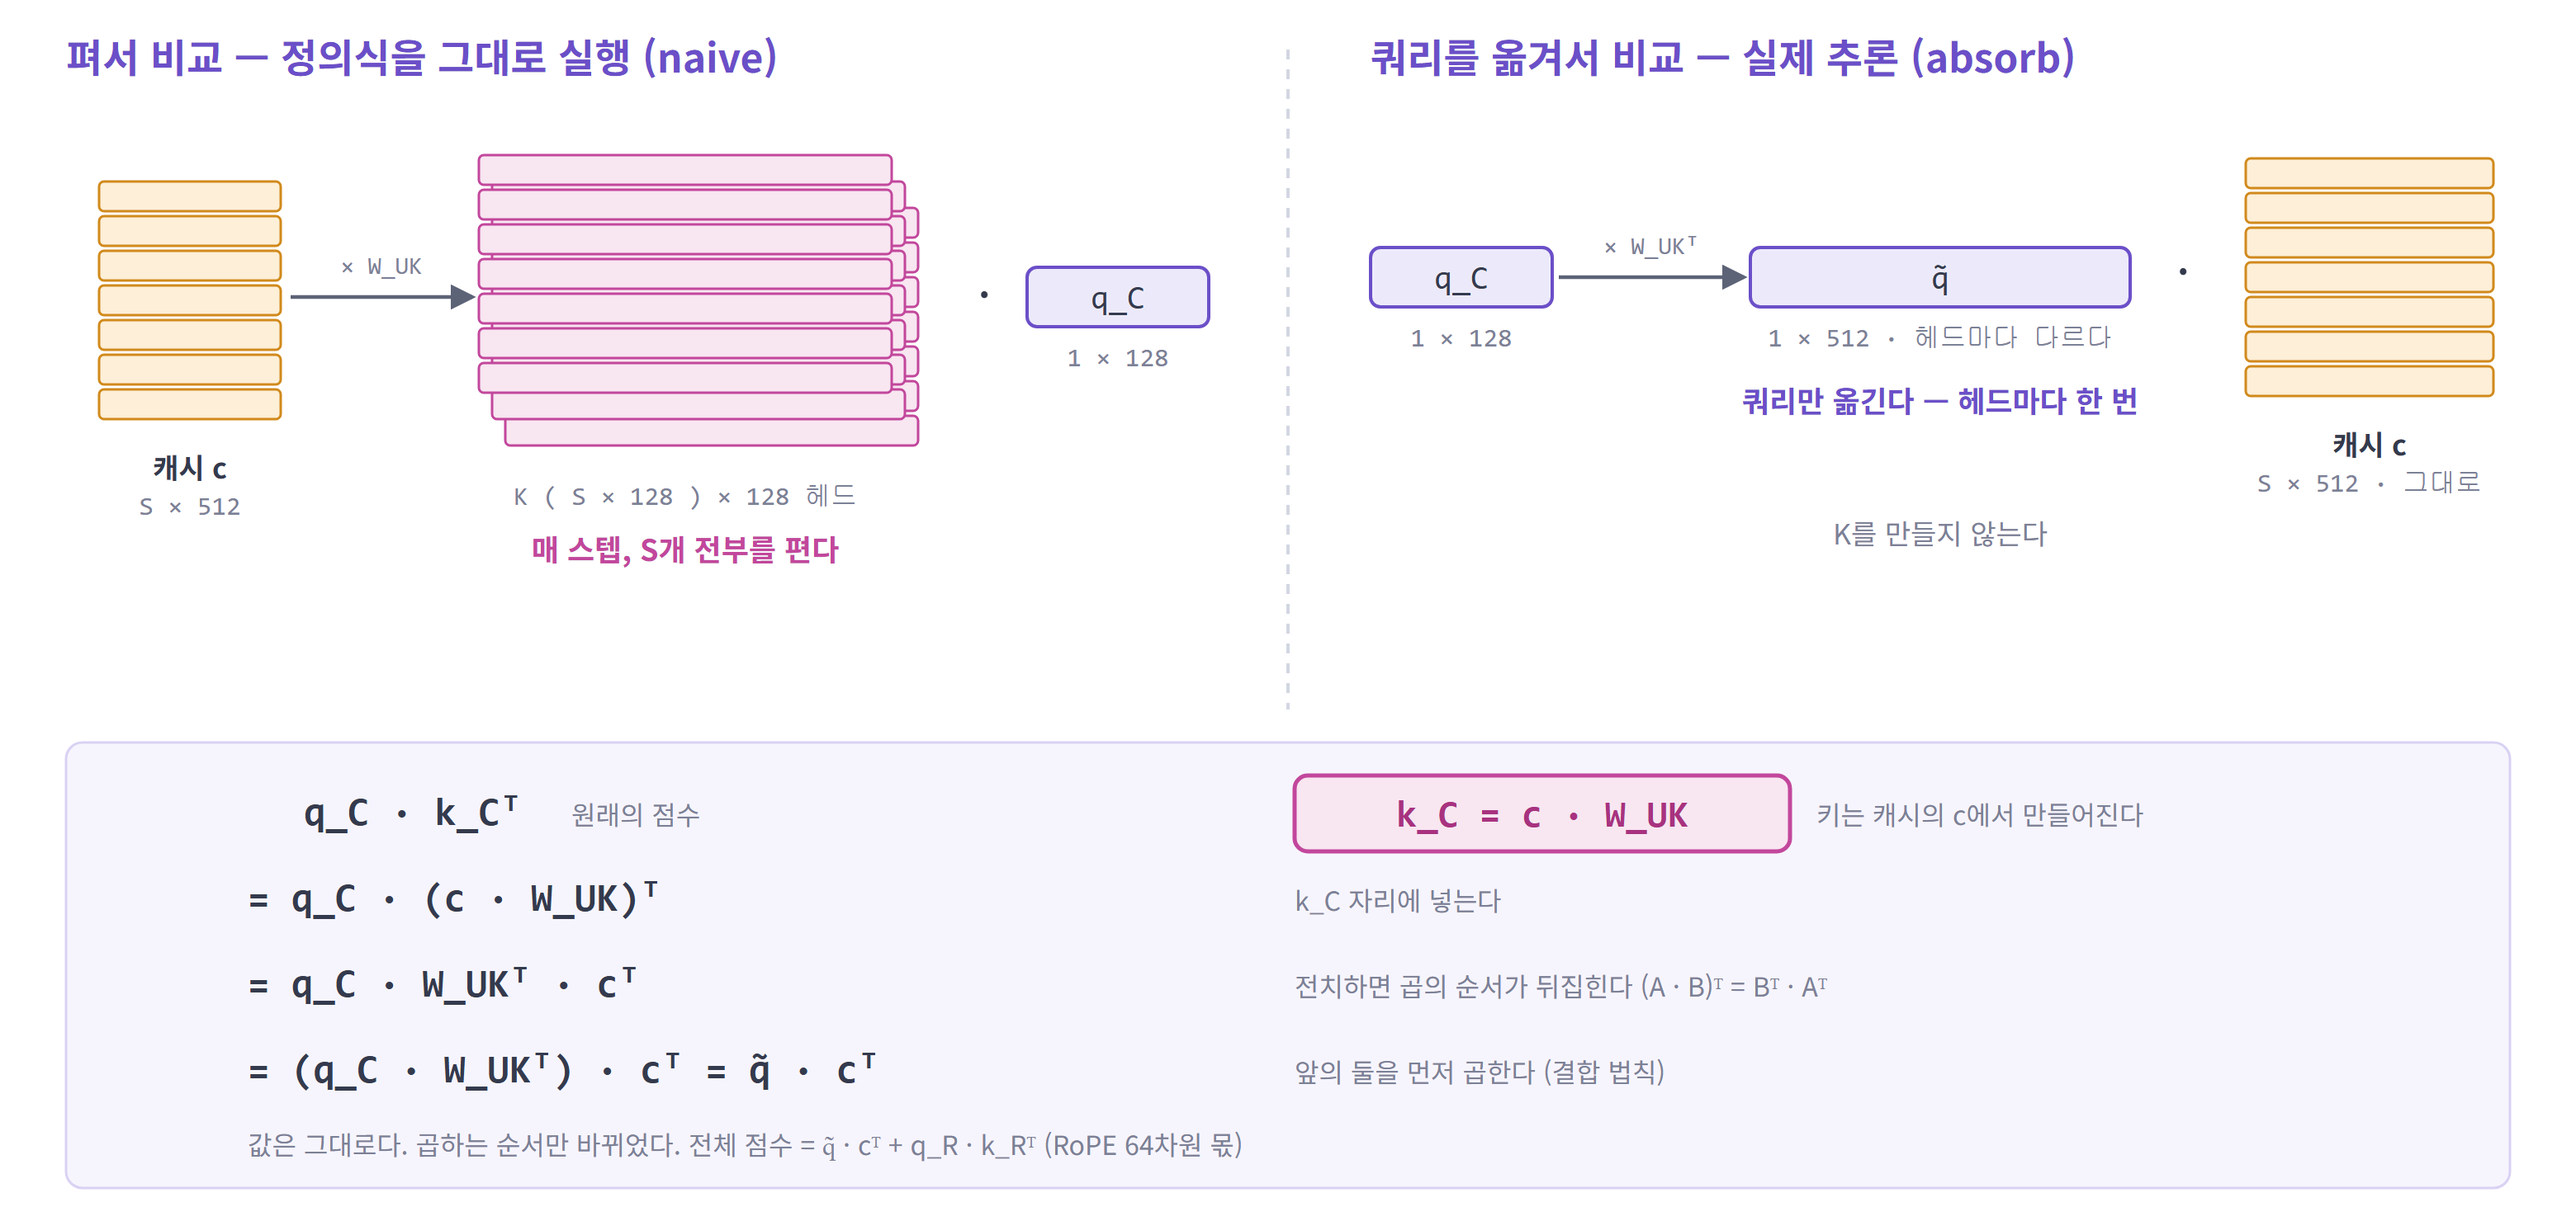
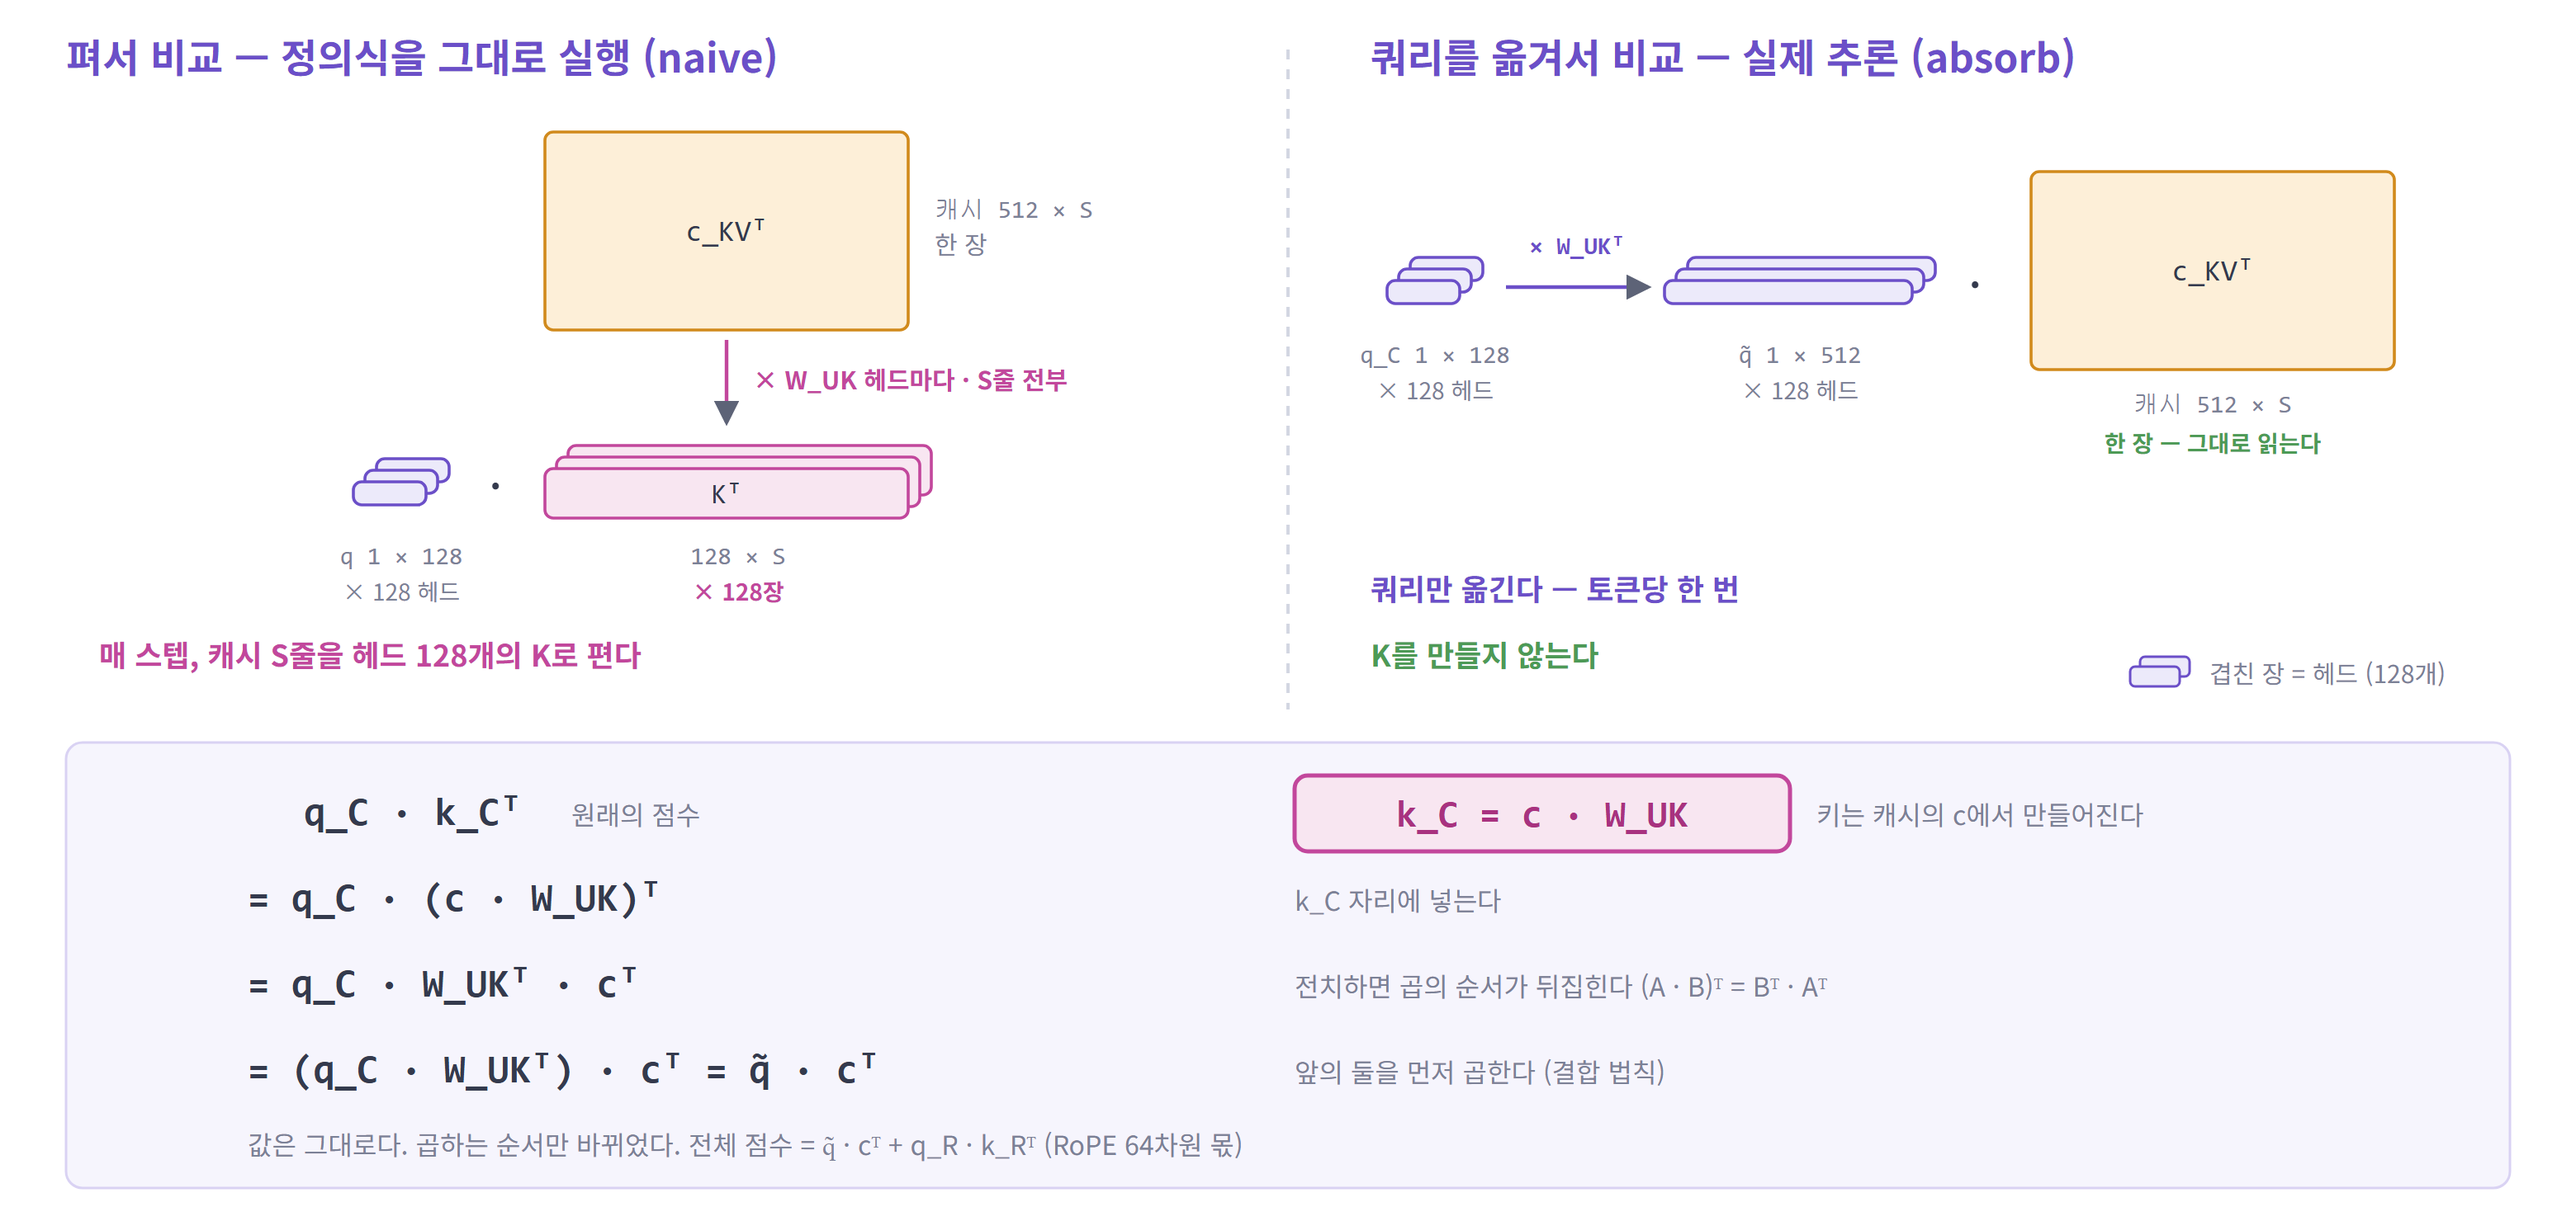
docs: redraw the MLA absorb figure with heads as stacked sheets

diff --git a/seminar/figures/make_figures.py b/seminar/figures/make_figures.py
@@ -228,35 +228,59 @@ def fig_mla_cache():
 # ---------------------------------------------------------------- 4. MLA 흡수
 def fig_mla_absorb():
     f = Fig("04-mla-absorb", 1560, 740)
-    # 왼쪽 : 펴서 비교
+    PINK, GRN = "#c2479c", "#4d9a56"
+    WS, H512, H128, W128, W512 = 220, 120, 30, 44, 150      # S, 512, 128을 나타내는 길이
+
+    def sheets(x, y, w, h, kind, n=3, off=7):
+        for i in range(n - 1, -1, -1):
+            f.rect(x + i * off, y - i * off, w, h, KINDS[kind][0], KINDS[kind][1], 5, 1.8)
+
+    # ---- 왼쪽 : 펴서 비교
     f.title(40, 44, "펴서 비교 — 정의식을 그대로 실행 (naive)")
-    f.stack(60, 110, 110, 7, "c", hi_last=False)
-    f.text(115, 290, "캐시 c", 17, weight=600)
-    f.text(115, 312, "S × 512", 16, color=MUTED, mono=True)
-    f.arrow(176, 180, 286, 180)
-    f.text(231, 166, "× W_UK", 15, color=MUTED, mono=True)
-    for i, dx in enumerate((16, 8, 0)):
-        f.stack(290 + dx, 94 + dx * 2, 250, 7, "k", hi_last=False)
-    f.text(415 + 0, 306, "K  ( S × 128 )  × 128 헤드", 16, color=MUTED, mono=True)
-    f.text(415, 340, "매 스텝, S개 전부를 편다", 18, weight=700, color="#c2479c")
-    f.text(596, 190, "·", 30)
-    f.box(622, 162, 110, 36, "q", "q_C", "1 × 128")
+    cx = 330
+    f.rect(cx, 80, WS, H512, KINDS["c"][0], KINDS["c"][1], 5, 1.8)
+    f.text(cx + WS / 2, 146, "c_KVᵀ", 18, mono=True)
+    f.text(cx + WS + 16, 132, "캐시  512 × S", 15, "start", color=MUTED, mono=True)
+    f.text(cx + WS + 16, 154, "한 장", 15, "start", color=MUTED)
+    f.arrow(cx + WS / 2, 206, cx + WS / 2, 256, color=PINK)
+    f.text(cx + WS / 2 + 16, 236, "× W_UK   헤드마다 · S줄 전부", 15, "start", 700, PINK)
+    sheets(cx, 284, WS, H128, "k")
+    f.text(cx + WS / 2, 305, "Kᵀ", 17, mono=True)
+    f.text(cx + WS / 2 + 7, 342, "128 × S", 15, color=MUTED, mono=True)
+    f.text(cx + WS / 2 + 7, 364, "× 128장", 14, weight=700, color=PINK)
+    sheets(214, 292, W128, 14, "q")
+    f.text(214 + W128 / 2 + 7, 342, "q  1 × 128", 15, color=MUTED, mono=True)
+    f.text(214 + W128 / 2 + 7, 364, "× 128 헤드", 14, color=MUTED)
+    f.text(300, 306, "·", 30)
+    f.text(60, 404, "매 스텝, 캐시 S줄을 헤드 128개의 K로 편다", 18, "start", 700, PINK)
 
     f.line(780, 30, 780, 430, "#d3d6e2", 2, "6 6")
 
-    # 오른쪽 : 쿼리를 옮겨서
+    # ---- 오른쪽 : 쿼리를 옮겨서
     x0 = 830
     f.title(x0, 44, "쿼리를 옮겨서 비교 — 실제 추론 (absorb)")
-    f.box(x0, 150, 110, 36, "q", "q_C", "1 × 128")
-    f.arrow(x0 + 114, 168, x0 + 226, 168)
-    f.text(x0 + 170, 154, "× W_UKᵀ", 15, color=MUTED, mono=True)
-    f.box(x0 + 230, 150, 230, 36, "q", "q̃", "1 × 512  ·  헤드마다 다르다")
-    f.text(x0 + 345, 250, "쿼리만 옮긴다 — 헤드마다 한 번", 18, weight=700, color=PURPLE)
-    f.text(x0 + 492, 176, "·", 30)
-    f.stack(x0 + 530, 96, 150, 7, "c", hi_last=False)
-    f.text(x0 + 605, 276, "캐시 c", 17, weight=600)
-    f.text(x0 + 605, 298, "S × 512  ·  그대로", 16, color=MUTED, mono=True)
-    f.text(x0 + 345, 330, "K를 만들지 않는다", 17, color=MUTED)
+    y = 170
+    sheets(x0 + 10, y, W128, 14, "q")
+    f.text(x0 + 10 + W128 / 2 + 7, y + 50, "q_C  1 × 128", 15, color=MUTED, mono=True)
+    f.text(x0 + 10 + W128 / 2 + 7, y + 72, "× 128 헤드", 14, color=MUTED)
+    f.arrow(x0 + 82, y + 4, x0 + 168, y + 4, color=PURPLE)
+    f.text(x0 + 125, y - 16, "× W_UKᵀ", 15, weight=700, color=PURPLE, mono=True)
+    sheets(x0 + 178, y, W512, 14, "q")
+    f.text(x0 + 178 + W512 / 2 + 7, y + 50, "q̃  1 × 512", 15, color=MUTED, mono=True)
+    f.text(x0 + 178 + W512 / 2 + 7, y + 72, "× 128 헤드", 14, color=MUTED)
+    f.text(x0 + 366, y + 14, "·", 30)
+    cx = x0 + 400
+    f.rect(cx, 104, WS, H512, KINDS["c"][0], KINDS["c"][1], 5, 1.8)
+    f.text(cx + WS / 2, 170, "c_KVᵀ", 18, mono=True)
+    f.text(cx + WS / 2, 250, "캐시  512 × S", 15, color=MUTED, mono=True)
+    f.text(cx + WS / 2, 274, "한 장 — 그대로 읽는다", 14, weight=700, color=GRN)
+    f.text(x0, 364, "쿼리만 옮긴다 — 토큰당 한 번", 18, "start", 700, PURPLE)
+    f.text(x0, 404, "K를 만들지 않는다", 18, "start", 700, GRN)
+
+    # 범례
+    f.rect(1296, 398, 30, 12, KINDS["q"][0], KINDS["q"][1], 3, 1.5)
+    f.rect(1290, 404, 30, 12, KINDS["q"][0], KINDS["q"][1], 3, 1.5)
+    f.text(1338, 414, "겹친 장 = 헤드 (128개)", 15, "start", color=MUTED)
 
     f.rect(40, 450, 1480, 270, "#f6f5fd", "#d9d2f3", 10, 1.5)
     ex, nx = 150, 800
